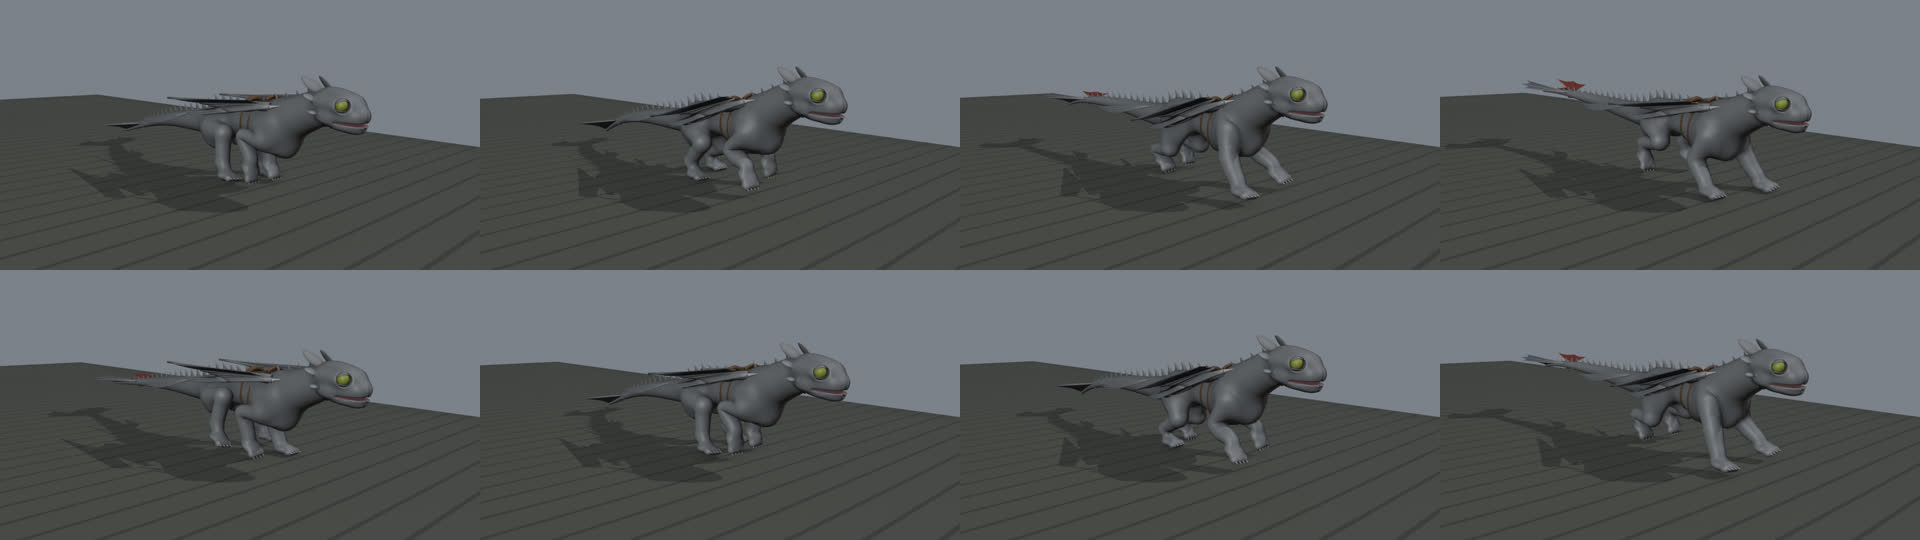
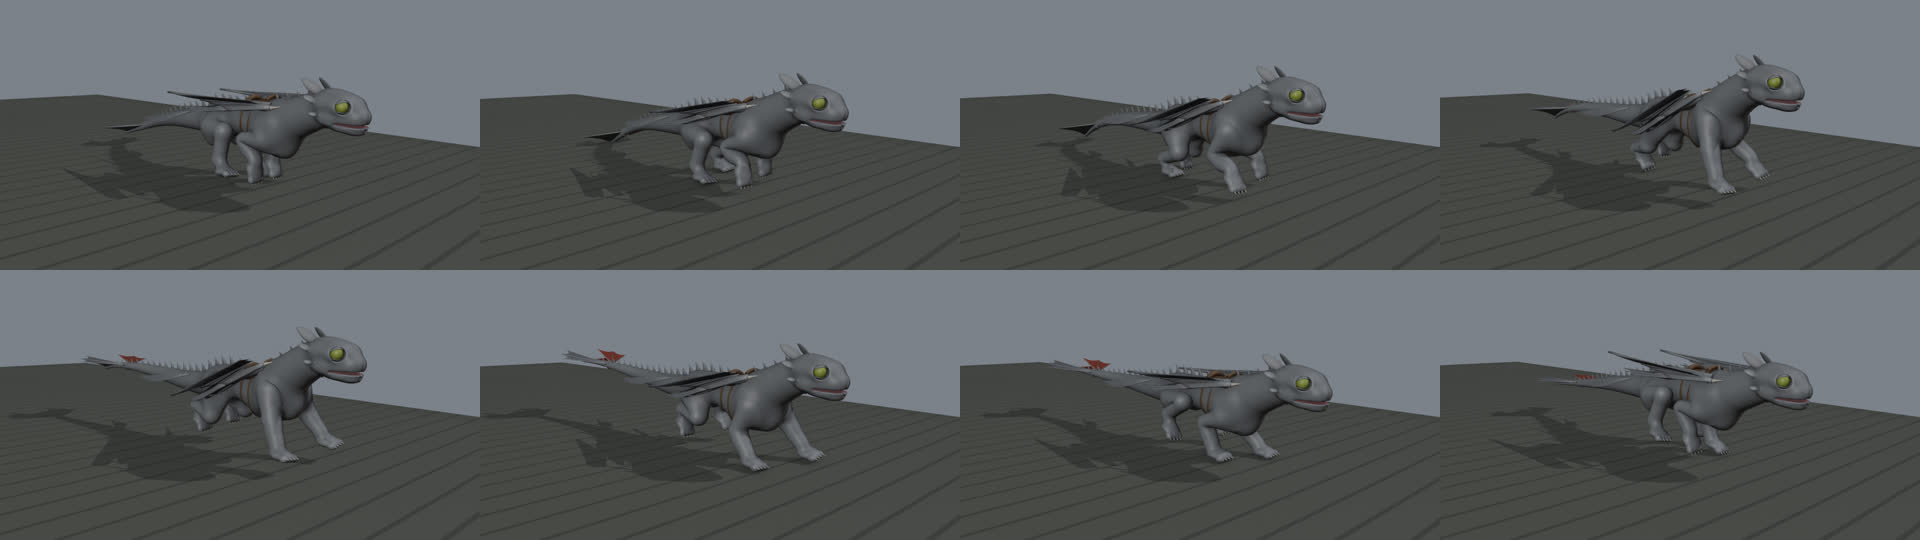
feat(loco): bounding gallop — keyed body bound, paws ride the flight, reach capped at joint limits
The gallop now pounces through the spine: height, pitch and arch are keyed over
the stride (low compression as the hinds land, a high stretched flight nose-up
with the fores reaching, compression and pivot over the fores, the back coiling
through a lower gathered flight). 16 frames at 7 m/s, duty 0.26, swing lift
0.2-0.24 m. Swinging paws ride up with the body above their lift-off ->
touchdown line, so legs reach through the air instead of straining to the
ground. The two-bone solve caps the span at the lower joint's limit; the
report counts stance misses only. Walk and trot unchanged.

Claude-Session: https://claude.ai/code/session_01GjYwpcVsN48k68Do6J5W4b

diff --git a/pipeline/blender/toothless/locomotion.py b/pipeline/blender/toothless/locomotion.py
@@ -62,19 +62,26 @@ TROT = {
              "flex": 0.018, "tail": 0.05, "tailLift": 0.03},
 }
 
-# Gallop: rotary footfall (LH, RH, RF, LF), the spine gathering (arched) as the hinds swing under the chest and
-# stretching as they push off and the fores reach, one big bob and pitch rock per stride, the tail counterbalancing.
+# Gallop: a bounding, pouncing rotary gallop (LH, RH, RF, LF). The hinds land under the chest with the back bowed
+# and compress, then the spine uncoils and drives the body up into a long, high, stretched flight with the nose up and
+# the fores reaching; the fores catch the weight, the body pivots over them nose down and the back coils again as the
+# hinds swing forward through a lower, gathered flight. Height, pitch and arch are keyed over the cycle; the tail
+# counterbalances.
 GALLOP = {
-    "frames": 14, "speed": 6.5, "duty": 0.3, "offsets": (0.0, 0.65, 0.1, 0.55),
-    "front": {"centre": -0.92, "lift": 0.2, "land": 0.6, "peel": 0.45,
-              "distal": _keys(0.3, [(0, 40), (0.5, 50), (0.85, 52)], [(0, 28), (0.3, -10), (0.6, 15), (0.85, 42)]),
-              "toes": _keys(0.3, [(0, 79), (0.72, 79)], [(0, 42), (0.3, 12), (0.7, 62), (0.88, 86)]),
-              "scapula": _keys(0.3, [(0, 16), (0.5, 2)], [(0, -16), (0.5, 6), (0.85, 18)])},
-    "hind": {"centre": 0.34, "lift": 0.18, "land": 0.6, "peel": 0.45,
-             "distal": _keys(0.3, [(0, 41), (0.5, 36), (0.88, 42)], [(0, 50), (0.3, 10), (0.62, 28), (0.875, 44)]),
-             "toes": _keys(0.3, [(0, 79), (0.7, 79)], [(0, 38), (0.3, 20), (0.69, 66), (0.875, 85)])},
-    "body": {"height": 0.96, "lean": -0.02, "bob": (0.045, 1, 2.95), "pitch": (0.05, 1, 0.31), "roll": 0.012,
-             "flex": 0.012, "tail": 0.04, "tailLift": 0.025, "arch": (0.12, 0.9)},
+    "frames": 16, "speed": 7.0, "duty": 0.26, "offsets": (0.0, 0.65, 0.1, 0.55),
+    "front": {"centre": -0.95, "lift": 0.2, "land": 0.35, "peel": 0.2,
+              "distal": _keys(0.26, [(0, 40), (0.5, 50), (0.85, 52)], [(0, 25), (0.28, -15), (0.6, 18), (0.85, 44)]),
+              "toes": _keys(0.26, [(0, 79), (0.7, 79)], [(0, 40), (0.3, 10), (0.7, 62), (0.88, 86)]),
+              "scapula": _keys(0.26, [(0, 18), (0.5, 2)], [(0, -18), (0.5, 8), (0.85, 20)])},
+    "hind": {"centre": 0.39, "lift": 0.24, "land": 0.3, "peel": 0.3,
+             "distal": _keys(0.26, [(0, 48), (0.5, 38), (0.88, 44)], [(0, 52), (0.3, 10), (0.62, 34), (0.875, 50)]),
+             "toes": _keys(0.26, [(0, 79), (0.68, 79)], [(0, 36), (0.3, 18), (0.69, 66), (0.875, 85)])},
+    "body": {"height": 0.95, "lean": -0.02,
+             "bob": [(0.0, -0.02), (0.17, -0.09), (0.3, -0.02), (0.45, 0.13), (0.58, 0.04), (0.72, -0.05),
+                     (0.85, -0.01), (0.94, 0.05)],
+             "pitch": [(0.0, 0.0), (0.2, 0.07), (0.38, 0.08), (0.55, 0.02), (0.72, -0.05), (0.9, -0.04)],
+             "arch": [(0.0, 0.13), (0.2, -0.04), (0.42, -0.2), (0.6, -0.1), (0.78, 0.08), (0.93, 0.21)],
+             "roll": 0.012, "flex": 0.012, "tail": 0.04, "tailLift": 0.035},
 }
 CYCLES = {"walk": WALK, "trot": TROT, "gallop": GALLOP}
 
@@ -115,8 +122,16 @@ def _seg(kind, a, b):
     return (Vector((r[b][1], r[b][2])) - Vector((r[a][1], r[a][2]))).length
 
 
-def leg_targets(cyc, kind, p):
-    """Toe-tip target (y, z) and the distal / toes angles of a leg at leg phase p."""
+def _rise(cyc, t):
+    """Body height above its baseline at cycle phase t (keyed bobs only; a sine bob is small and left out)."""
+    bob = cyc["body"]["bob"]
+    return _pchip(bob, t) if isinstance(bob, list) else 0.0
+
+
+def leg_targets(cyc, kind, p, off=0.0):
+    """Toe-tip target (y, z) and the distal / toes angles of a leg at leg phase p (leg offset `off`). A swinging paw
+    rides up with the body when it rises above the line between its lift-off and touchdown heights (the gallop's
+    flight): the leg stays reaching through the air instead of straining down to the ground."""
     c = cyc[kind]
     T = cyc["frames"] / FPS
     duty = cyc["duty"]
@@ -136,6 +151,9 @@ def leg_targets(cyc, kind, p):
     v = cyc["speed"] * T * (1.0 - duty)                 # ground speed in swing-phase units
     y = _hermite(paw_lo.x, paw_td.x, c["peel"] * v, c["land"] * v, w)      # 2-D vectors: .x = y, .y = z
     z = paw_lo.y + (paw_td.y - paw_lo.y) * w + c["lift"] * math.sin(math.pi * w ** 0.8)
+    t_lo, t_td = (off + duty) % 1.0, off % 1.0
+    base = _rise(cyc, t_lo) + (_rise(cyc, t_td) - _rise(cyc, t_lo)) * w
+    z += max(0.0, _rise(cyc, (off + p) % 1.0) - base)
     paw = Vector((y, z))
     return paw + lt * _dir(toes), distal, toes
 
@@ -143,18 +161,28 @@ def leg_targets(cyc, kind, p):
 def body_bones(cyc, t):
     """Body channels at cycle phase t (LH touchdown at 0): (root height, pitch) and the spine / neck / head / tail
     rotations. bob = (amplitude m, harmonic, phase) on a cosine, pitch = (rad, harmonic, phase) on a sine about the
-    lean; the hips roll toward the swinging hind leg, the spine flexes laterally against the stride, the chest
+    lean, or either (and arch) keyed as [(cycle phase, value)]; the hips roll toward the swinging hind leg, the spine flexes laterally against the stride, the chest
     counter-rolls; arch = (rad per spine bone, phase of the most gathered moment) bows the back up and stretches it
     flat; the neck soaks up the body's pitch and the arch so the head stays level; the tail wave trails the hips."""
     b = cyc["body"]
     w = 2 * math.pi * t
-    amp, h, ph = b["bob"]
-    height = b["height"] + amp * math.cos(h * w + ph)
-    pa, ph_, pph = b["pitch"]
-    pitch = b["lean"] + pa * math.sin(ph_ * w + pph)
+    if isinstance(b["bob"], list):                     # keyed over the cycle (the gallop's bound)
+        h = 1
+        height = b["height"] + _pchip(b["bob"], t)
+    else:
+        amp, h, ph = b["bob"]
+        height = b["height"] + amp * math.cos(h * w + ph)
+    if isinstance(b["pitch"], list):
+        pitch = b["lean"] + _pchip(b["pitch"], t)
+    else:
+        pa, ph_, pph = b["pitch"]
+        pitch = b["lean"] + pa * math.sin(ph_ * w + pph)
     roll = b["roll"] * math.sin(w)
-    aa, at = b.get("arch", (0.0, 0.0))
-    arch = aa * math.cos(w - 2 * math.pi * at)          # + = gathered (back bowed up), - = stretched
+    if isinstance(b.get("arch"), list):
+        arch = _pchip(b["arch"], t)
+    else:
+        aa, at = b.get("arch", (0.0, 0.0))
+        arch = aa * math.cos(w - 2 * math.pi * at)      # + = gathered (back bowed up), - = stretched
     bones = {"pelvis": (pitch, roll, 0.6 * b["flex"] * math.sin(w + 0.4))}
     for k, n in enumerate(("spine_01", "spine_02", "spine_03", "chest")):
         bend = arch if k == 0 else -0.667 * arch        # slopes +1, +1/3, -1/3, -1 x arch along the back
@@ -187,6 +215,25 @@ def _yz(v):
     return Vector((v.y, v.z))
 
 
+_REACH = {}
+
+
+def _reach(rig, kind, upper, lower):
+    """Longest root -> wrist / hock span the joint limits allow: the lower bone at either end of its anatomy.LIMBS
+    range (bind is bent, and the straight leg is past the limit). Measured once on the posed rig."""
+    if lower not in _REACH:
+        pbs = rig.pose.bones
+        spans = []
+        for lim in A.LIMBS[kind]["limits"][lower[:-2]]:
+            for n, ang in ((upper, 0.0), (lower, math.radians(lim))):
+                pbs[n].rotation_mode = "XYZ"
+                pbs[n].rotation_euler = (ang, 0.0, 0.0)
+            bpy.context.view_layer.update()
+            spans.append((pbs[lower].tail - pbs[upper].head).length)
+        _REACH[lower] = max(spans)
+    return _REACH[lower]
+
+
 def solve_leg(rig, kind, side, toe, distal, toes, scapula=None):
     """Close one leg onto its toe-tip target: scapula (front), the two-bone solve to the wrist / hock, then the
     distal and toe segments at their authored angles. Returns {bone: (x, 0, 0)} and the toe-tip miss (m)."""
@@ -209,7 +256,7 @@ def solve_leg(rig, kind, side, toe, distal, toes, scapula=None):
         a = (pbs[upper].tail - pbs[upper].head).length
         b = (pbs[lower].tail - pbs[lower].head).length
         span = mid - root
-        dist_ = max(abs(a - b) + 1e-4, min(a + b - 1e-4, span.length))
+        dist_ = max(abs(a - b) + 1e-4, min(_reach(rig, kind, upper, lower) - 1e-4, span.length))
         u = span.normalized()
         ang = math.acos(max(-1.0, min(1.0, (a * a + dist_ * dist_ - b * b) / (2 * a * dist_))))
         n = Vector((-u.y, u.x))                         # u turned +90 deg in the (y, z) plane
@@ -243,12 +290,13 @@ def cycle_frames(rig, name):
         for key, off in zip(LEGS, cyc["offsets"]):
             kind, side = key.split("_")
             p = (t - off) % 1.0
-            toe, distal, toes = leg_targets(cyc, kind, p)
+            toe, distal, toes = leg_targets(cyc, kind, p, off)
             scap = _pchip(cyc["front"]["scapula"], p) if kind == "front" else None
             leg, miss = solve_leg(rig, kind, side, toe, distal, toes, scap)
             bones.update(leg)
             r = report.setdefault(key, {"miss": 0.0, "range": {}})
-            r["miss"] = max(r["miss"], miss)
+            if p < cyc["duty"]:                              # a swinging paw short of its target is only in the air
+                r["miss"] = max(r["miss"], miss)
             for bn, e in leg.items():
                 lo, hi = r["range"].get(bn, (1e9, -1e9))
                 r["range"][bn] = (min(lo, math.degrees(e[0])), max(hi, math.degrees(e[0])))
@@ -278,5 +326,5 @@ def limit_report(report):
             a, b = lim[base]
             flag = "" if a <= lo and hi <= b else "  <-- OUTSIDE"
             out.append(f"{key:8s} {base:18s} {lo:7.1f} .. {hi:6.1f}  (limit {a} .. {b}){flag}")
-        out.append(f"{key:8s} worst toe miss {r['miss'] * 100:.2f} cm")
+        out.append(f"{key:8s} worst stance toe miss {r['miss'] * 100:.2f} cm")
     return out
